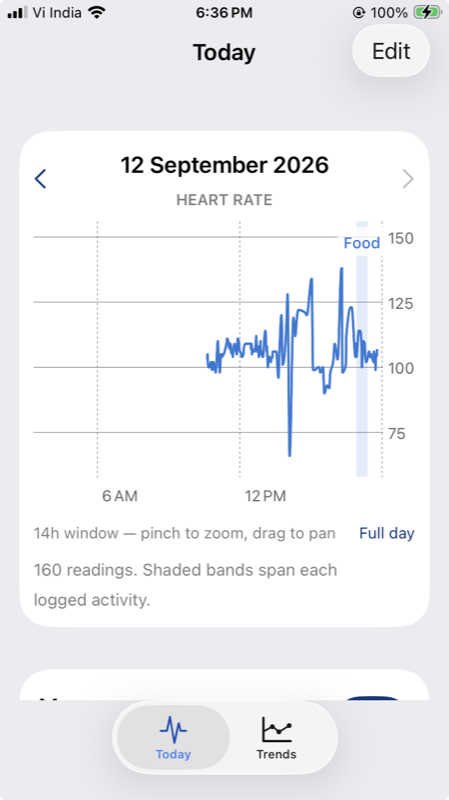
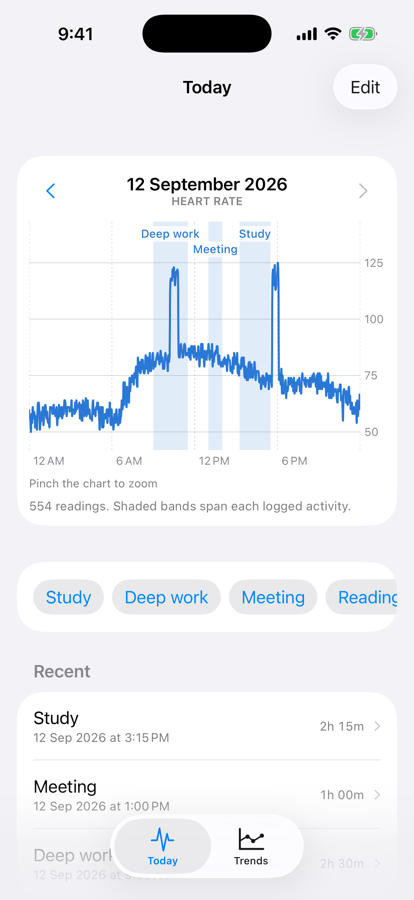
Replace the README screenshot with one taken from synthetic data
The previous screenshot carried real heart-rate readings and a carrier
name into a public repo. Redacting the trace was not an option — it is
the only content the image exists to show — so the app now has a
DEBUG-only -sample-data mode and the screenshot comes from that: a real
screenshot of the real UI, just not of anyone's body.

Sample data bypasses HealthKit rather than seeding it, since writing heart
rate would need share access this app has no business holding and would
raise a permission sheet that blocks automation. The generator is
deterministic so screenshots are reproducible.

Also fixes band labels overlapping each other. Fitting to the plot
stopped labels running off the chart but not colliding with a neighbour's
when activities sit close together; labels now alternate between two rows.
The three adjacent bands in the screenshot are what surfaced it.

diff --git a/Trace/Health/SampleData.swift b/Trace/Health/SampleData.swift
@@ -1,0 +1,102 @@
+#if DEBUG
+import Foundation
+
+/// Synthetic data for screenshots and previews. DEBUG-only and reached solely
+/// via the `-sample-data` launch argument, so it can never stand in for real
+/// readings in a shipped build.
+///
+/// It bypasses HealthKit rather than writing to it: seeding the real store
+/// would need write access to heart rate — which this app has no business
+/// holding — and would raise a permission sheet that blocks automation.
+enum SampleData {
+
+    static var isEnabled: Bool {
+        ProcessInfo.processInfo.arguments.contains("-sample-data")
+    }
+
+    /// A day shaped like real wrist data: overnight dip, waking rise, daytime
+    /// variation with two active spikes, evening settle.
+    static func heartRate(on day: Date, calendar: Calendar = .current) -> [HRSample] {
+        let start = calendar.startOfDay(for: day)
+        var generator = SeededGenerator(seed: UInt64(start.timeIntervalSince1970))
+        var out: [HRSample] = []
+
+        // ~2.6 minute spacing, matching the real background sampling rate.
+        for step in stride(from: 0.0, to: 24.0, by: 2.6 / 60.0) {
+            var bpm: Double
+            switch step {
+            case ..<6.5:  bpm = 56 + 4 * sin(step / 2)
+            case ..<8:    bpm = 58 + (step - 6.5) * 14
+            case ..<21:   bpm = 78 + 7 * sin((step - 8) / 2.4)
+            default:      bpm = 72 - (step - 21) * 4
+            }
+            if step > 10.2 && step < 10.8 { bpm += 34 }   // a walk
+            if step > 17.6 && step < 18.1 { bpm += 46 }   // something brisker
+
+            bpm += generator.nextGaussian() * 2.8
+            out.append(HRSample(date: start.addingTimeInterval(step * 3600),
+                                bpm: min(138, max(50, bpm.rounded()))))
+        }
+        return out
+    }
+
+    /// Sixty days of HRV and resting heart rate, drifting the way a real
+    /// baseline does rather than sitting flat.
+    static func days(calendar: Calendar = .current) -> [DayMetrics] {
+        let today = calendar.startOfDay(for: .now)
+        var generator = SeededGenerator(seed: 42)
+        var hrv = 42.0
+        var rhr = 62.0
+        var out: [DayMetrics] = []
+
+        for offset in stride(from: -59, through: 0, by: 1) {
+            hrv = max(22, min(68, hrv + generator.nextGaussian() * 3.0))
+            rhr = max(52, min(78, rhr + generator.nextGaussian() * 1.4))
+            let date = calendar.date(byAdding: .day, value: offset, to: today) ?? today
+            out.append(DayMetrics(date: date,
+                                  hrv: (hrv * 10).rounded() / 10,
+                                  restingHR: rhr.rounded(),
+                                  stress: nil))
+        }
+        return StressScore.annotate(out)
+    }
+
+    /// Activities for today, positioned to sit over the interesting parts of
+    /// the synthetic trace.
+    static func activities(calendar: Calendar = .current) -> [(String, Date, Date)] {
+        let start = calendar.startOfDay(for: .now)
+        func at(_ hour: Double) -> Date { start.addingTimeInterval(hour * 3600) }
+        return [
+            ("Deep work", at(9.0), at(11.5)),
+            ("Meeting", at(13.0), at(14.0)),
+            ("Study", at(15.25), at(17.5)),
+        ]
+    }
+}
+
+/// A tiny deterministic generator, so screenshots are reproducible rather than
+/// different on every run.
+private struct SeededGenerator {
+    private var state: UInt64
+
+    init(seed: UInt64) { state = seed == 0 ? 0x9E3779B97F4A7C15 : seed }
+
+    private mutating func next() -> UInt64 {
+        state ^= state << 13
+        state ^= state >> 7
+        state ^= state << 17
+        return state
+    }
+
+    private mutating func nextUnit() -> Double {
+        Double(next() % 1_000_000) / 1_000_000.0
+    }
+
+    /// Box-Muller, so the noise looks like measurement noise.
+    mutating func nextGaussian() -> Double {
+        let u1 = max(nextUnit(), 1e-9)
+        let u2 = nextUnit()
+        return sqrt(-2 * log(u1)) * cos(2 * .pi * u2)
+    }
+}
+#endif

diff --git a/Trace/Views/DayView.swift b/Trace/Views/DayView.swift
@@ -61,21 +61,27 @@ struct DayView: View {
     /// Activities clipped to this day, so a session crossing midnight shows
     /// only the part that belongs here.
     private var bands: [Band] {
-        activities.compactMap { activity in
+        let spans: [(id: PersistentIdentifier, span: BandSpan)] = activities.compactMap { activity in
             guard let span = BandLayout.clip(
                 label: activity.label,
                 start: activity.start,
                 end: activity.end,
                 toDayStarting: day
             ) else { return nil }
-            return Band(id: activity.persistentModelID, span: span)
+            return (id: activity.persistentModelID, span: span)
         }
-        .sorted { $0.span.start < $1.span.start }
+        return spans
+            .sorted { $0.span.start < $1.span.start }
+            .enumerated()
+            .map { Band(id: $0.element.id, span: $0.element.span, row: $0.offset % 2) }
     }
 
     private struct Band: Identifiable {
         let id: PersistentIdentifier
         let span: BandSpan
+        /// Alternating label row. Bands often sit close together, and labels
+        /// wider than their band would otherwise overlap each other.
+        let row: Int
     }
 
     var body: some View {
@@ -167,7 +173,7 @@ struct DayView: View {
                     spacing: 4,
                     overflowResolution: Self.labelOverflow
                 ) {
-                    BandLabel(text: band.span.label)
+                    BandLabel(text: band.span.label, row: band.row)
                 }
             }
 
@@ -238,6 +244,7 @@ struct DayView: View {
 /// chart builder, its modifier chain blows the type checker's budget.
 private struct BandLabel: View {
     let text: String
+    let row: Int
 
     var body: some View {
         Text(text)
@@ -248,6 +255,7 @@ private struct BandLabel: View {
             .padding(.vertical, 1)
             .background(background)
             .fixedSize()
+            .offset(y: CGFloat(row) * 15)
     }
 
     private var background: some View {

diff --git a/Trace/Health/HealthStore.swift b/Trace/Health/HealthStore.swift
@@ -25,6 +25,13 @@ final class HealthStore: ObservableObject {
     /// simply returns no samples, which is indistinguishable from having no
     /// data. So this only records that we asked; it never branches on the answer.
     func requestAuthorization() async {
+        #if DEBUG
+        if SampleData.isEnabled {
+            didRequestAuth = true
+            await load()
+            return
+        }
+        #endif
         guard isAvailable else { return }
         let read: Set<HKObjectType> = [hrvType, rhrType, hrType]
         let share: Set<HKSampleType> = [mindfulType]
@@ -38,6 +45,12 @@ final class HealthStore: ObservableObject {
     }
 
     func load(daysBack: Int = 60) async {
+        #if DEBUG
+        if SampleData.isEnabled {
+            days = SampleData.days()
+            return
+        }
+        #endif
         guard isAvailable else { return }
         isLoading = true
         defer { isLoading = false }
@@ -94,6 +107,9 @@ final class HealthStore: ObservableObject {
     /// workout the watch samples every few minutes, so expect a sparse line
     /// rather than a smooth trace.
     func heartRate(on day: Date) async -> [HRSample] {
+        #if DEBUG
+        if SampleData.isEnabled { return SampleData.heartRate(on: day) }
+        #endif
         guard isAvailable else { return [] }
         let calendar = Calendar.current
         let start = calendar.startOfDay(for: day)

diff --git a/Trace/App/TraceApp.swift b/Trace/App/TraceApp.swift
@@ -12,6 +12,9 @@ struct TraceApp: App {
 }
 
 struct RootView: View {
+    @Environment(\.modelContext) private var context
+    @Query private var existing: [Activity]
+
     // One store shared by both tabs, so authorisation is requested once and
     // the daily series isn't fetched twice.
     @StateObject private var health = HealthStore()
@@ -28,8 +31,21 @@ struct RootView: View {
             // without it, and HealthKit only ever shows the sheet once. Under
             // UI test the request is skipped so no system sheet can block the
             // run — the views being exercised do not need health data.
+            #if DEBUG
+            seedSampleActivitiesIfNeeded()
+            #endif
             guard !ProcessInfo.processInfo.arguments.contains("-uitesting") else { return }
             if !health.didRequestAuth { await health.requestAuthorization() }
         }
     }
+
+    #if DEBUG
+    /// Inserts the screenshot activities once, only under `-sample-data`.
+    private func seedSampleActivitiesIfNeeded() {
+        guard SampleData.isEnabled, existing.isEmpty else { return }
+        for (label, start, end) in SampleData.activities() {
+            context.insert(Activity(label: label, start: start, end: end))
+        }
+    }
+    #endif
 }

diff --git a/README.md b/README.md
@@ -12,7 +12,7 @@ top of the data Health already collected.
   <img src="docs/screenshots/today.png" width="340" alt="Trace's Today screen: a day of heart rate with a logged activity drawn as a shaded band across its duration">
 </p>
 
-<p align="center"><sub>The Today screen — heart rate across the day, with each logged activity as a band spanning its real duration.</sub></p>
+<p align="center"><sub>The Today screen — heart rate across the day, with each logged activity as a band spanning its real duration. Captured with <code>-sample-data</code>, so the readings are synthetic rather than anyone's.</sub></p>
 
 ## The idea
 
@@ -149,6 +149,19 @@ data and no device:
 test could reach: two buttons in one `List` row let the row swallow their taps.
 Reverting that one fix fails three of its five cases, so it is a real regression
 test rather than decoration.
+
+### Sample data
+
+Launch with `-sample-data` (DEBUG builds only) and the app serves synthetic
+readings instead of reaching HealthKit at all — a deterministic day of heart
+rate, sixty days of HRV and resting heart rate, and three activities. It is how
+the screenshot above was taken, and it makes the UI workable in the Simulator,
+where HealthKit returns nothing. It bypasses HealthKit rather than seeding it:
+writing heart rate would need share access this app has no business holding.
+
+```sh
+xcrun simctl launch <device> com.and.Trace -sample-data
+```
 
 What the suite still does **not** cover: the other half of that bug, where a
 scrollable chart held a scroll offset pointing into the previous day's domain and
